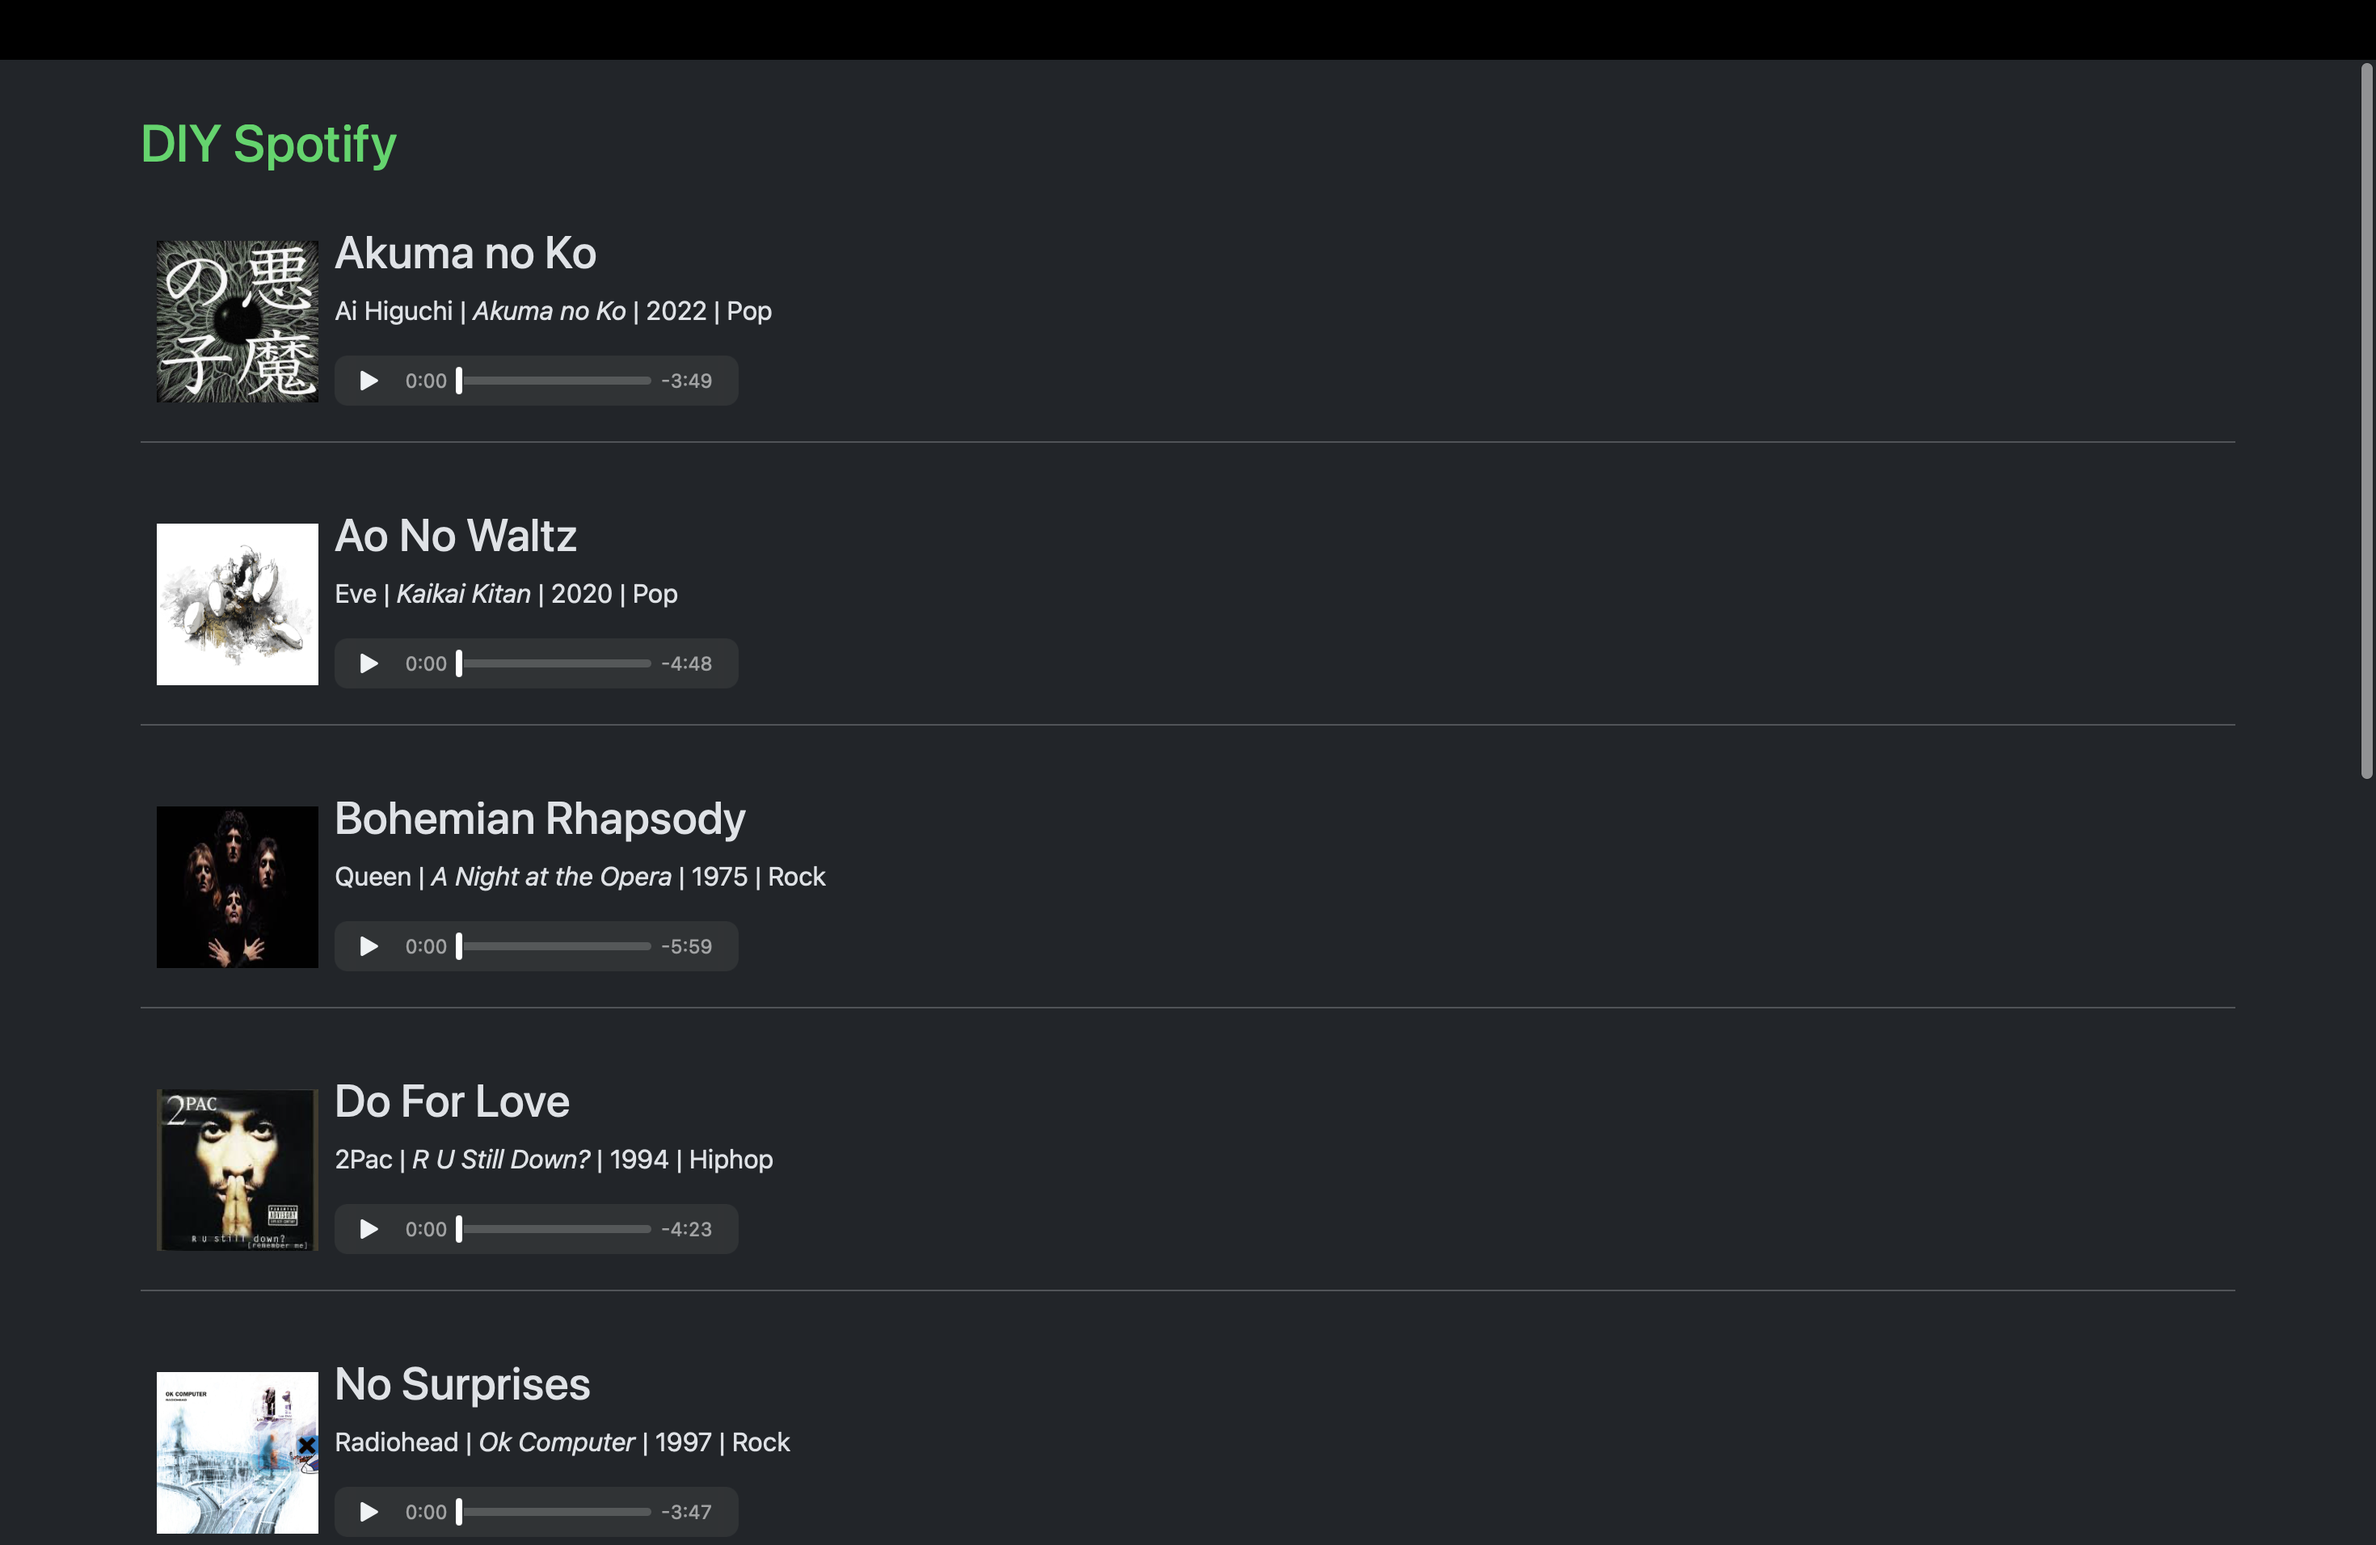
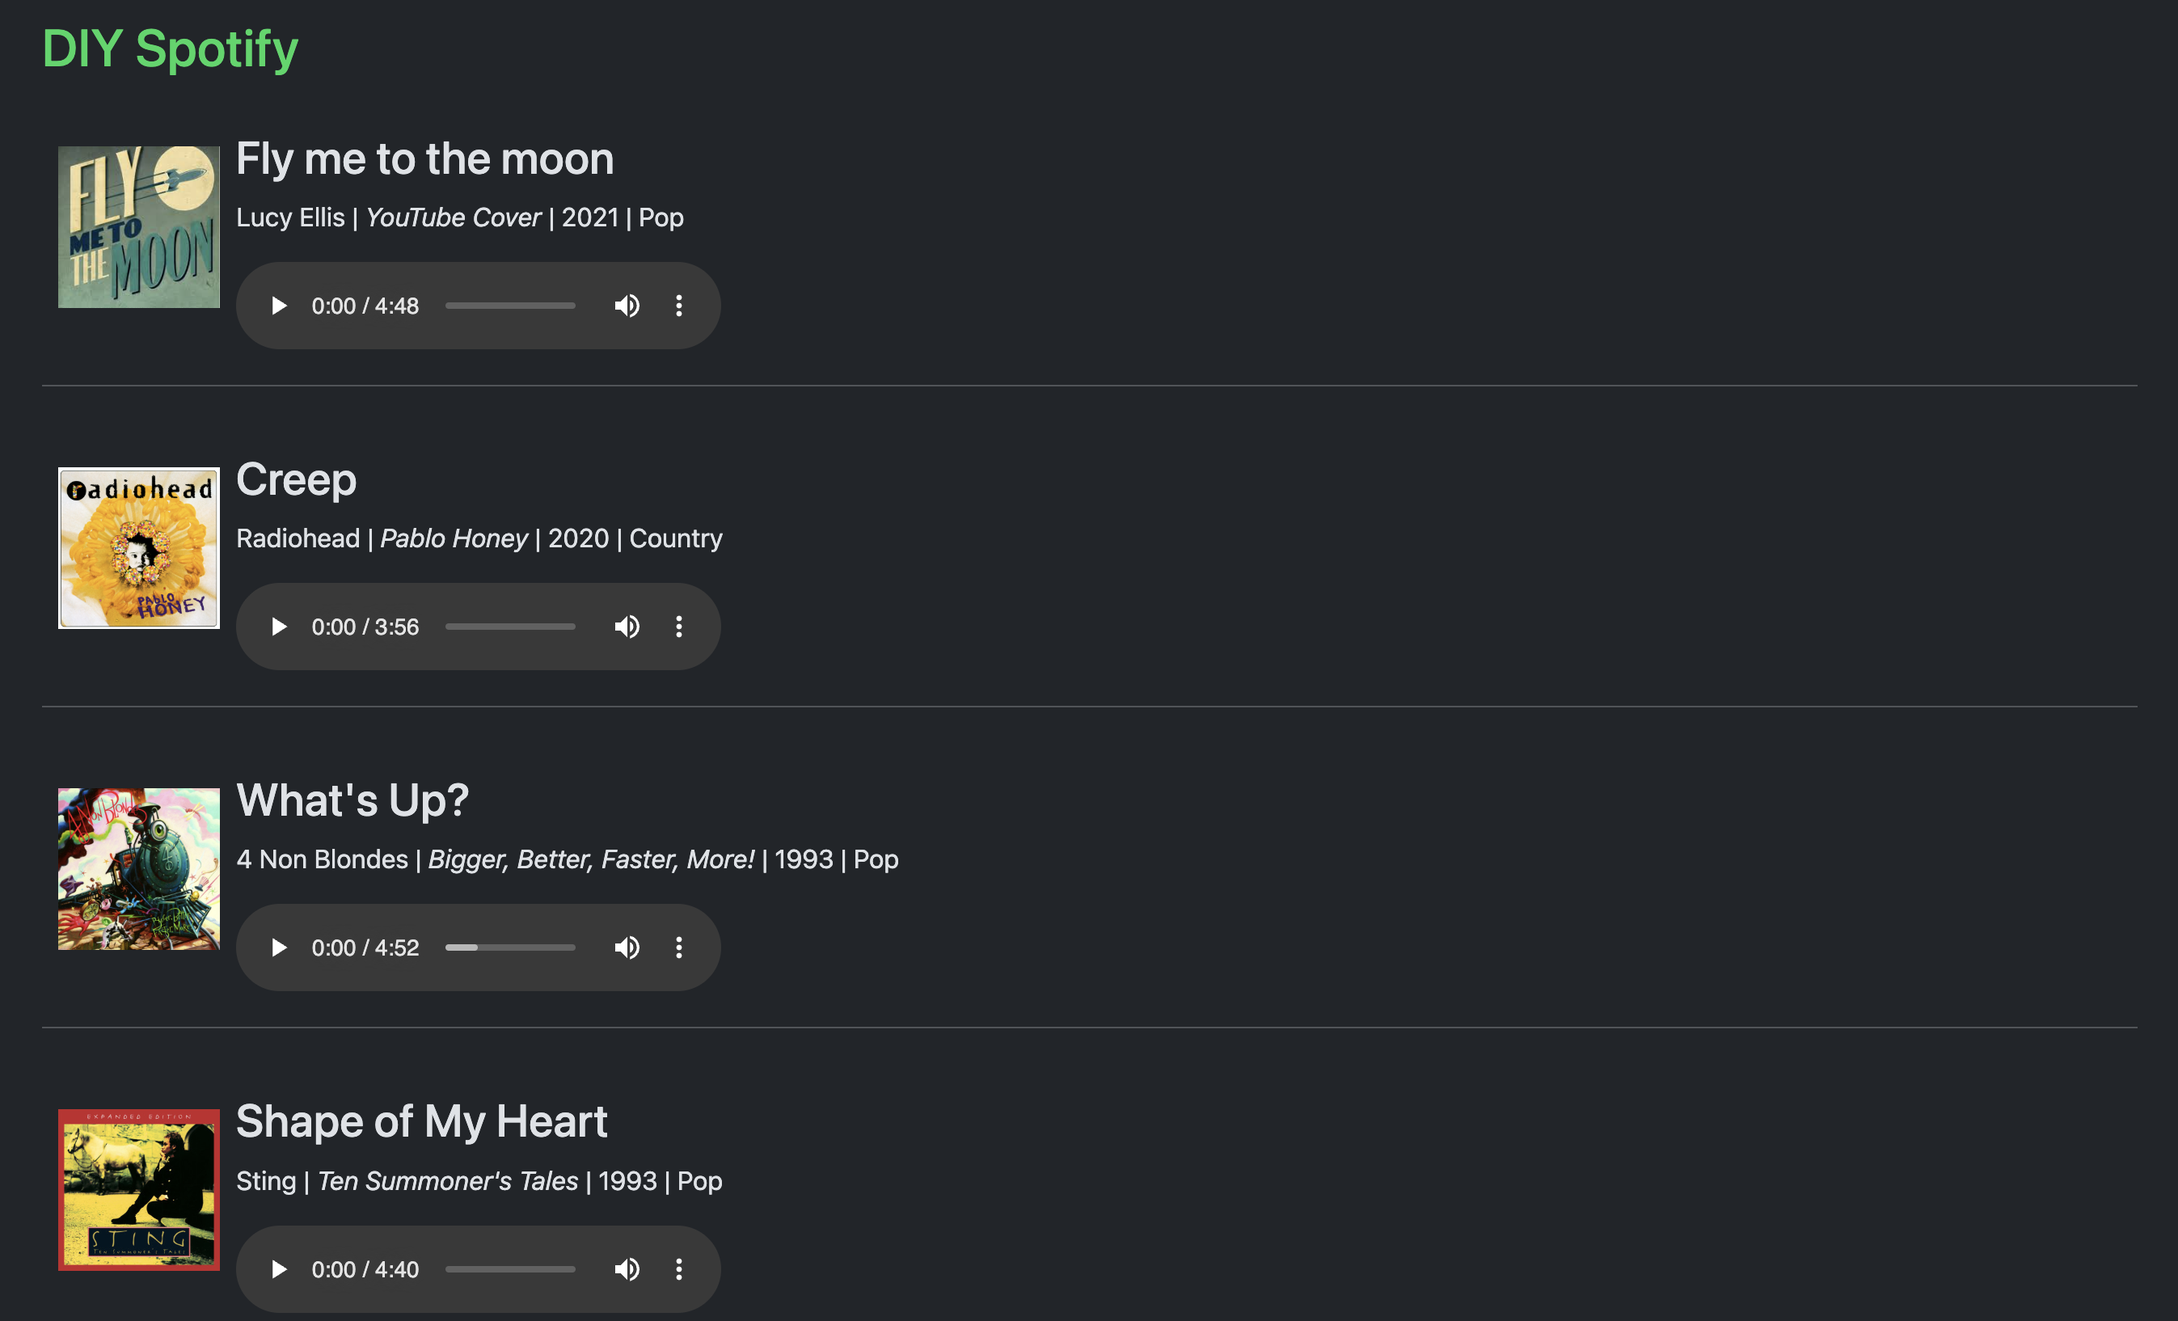
update Spotify link to YouTube video

Changed region(s): [[0.0, 0.3121, 0.4053, 0.9988], [0.0, 0.0, 1.0, 0.4994]]

diff --git a/index.html b/index.html
@@ -266,7 +266,7 @@
     
     <div class="card">
       <div class="card-title">&bull; Spotify API</div>
-      <a href="http://esd4uq-dp1-spotify.s3-website-us-east-1.amazonaws.com" target="_blank">
+      <a href="https://youtu.be/hJJ_HMDzN2w" target="_blank">
         <img src="image/spotify.png" alt="DIY Spotify">
       </a>
       <div class="card-tags">
